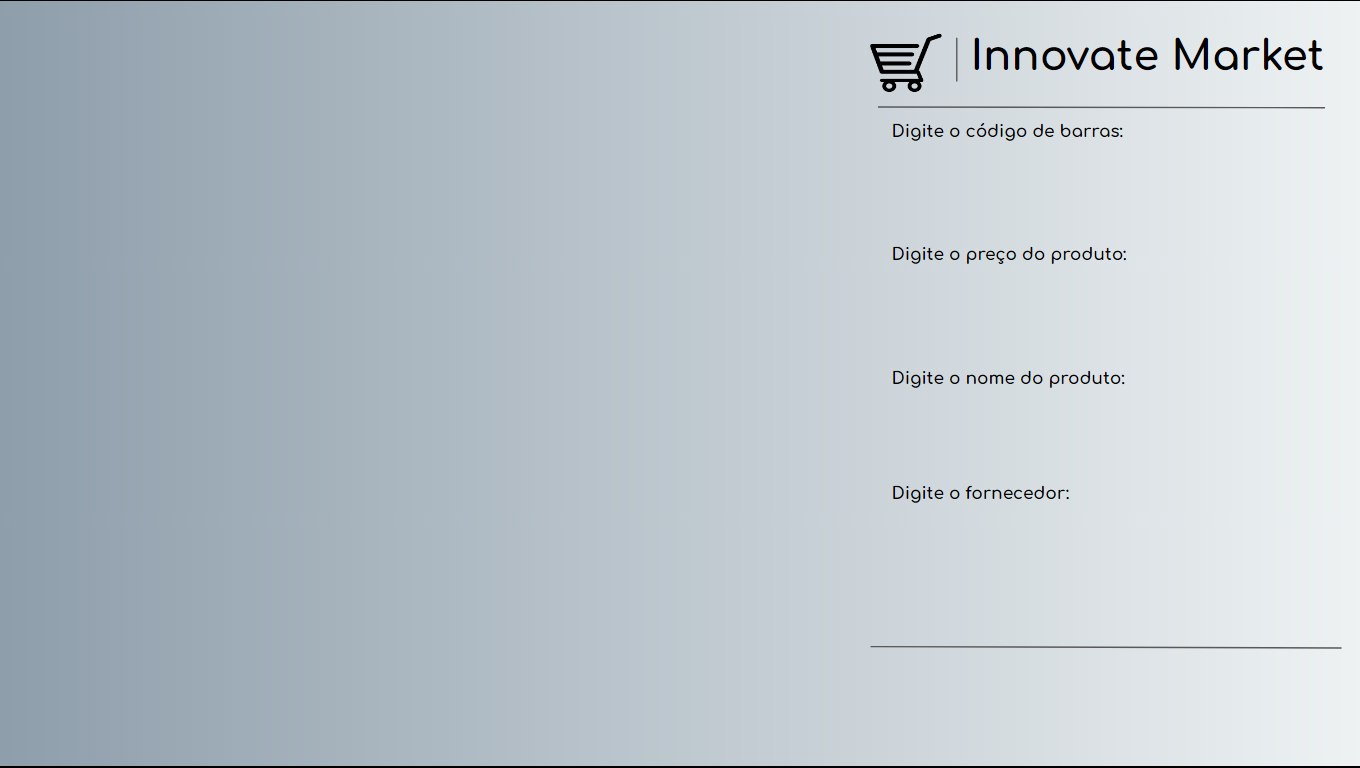
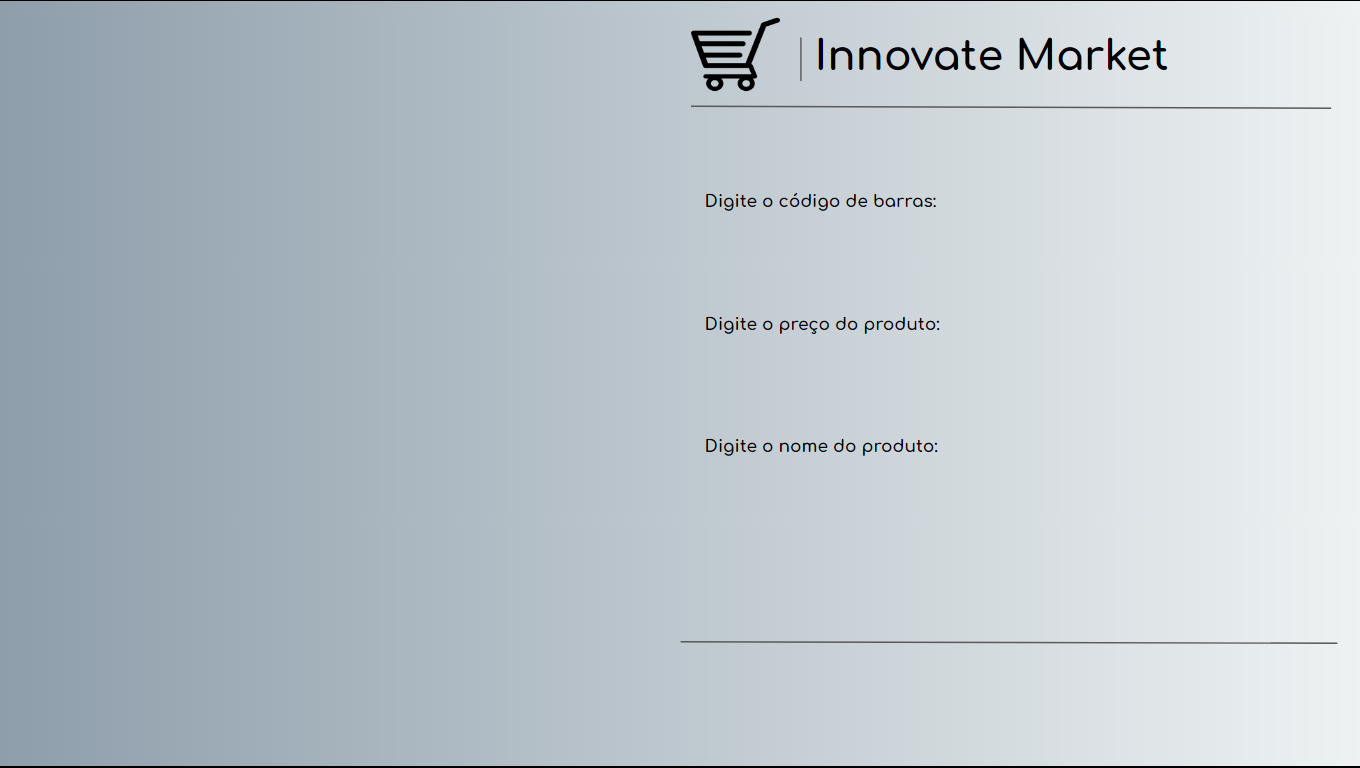
Update fullscreen

diff --git a/InnovateMarketMVC/view/Produtos.py b/InnovateMarketMVC/view/Produtos.py
@@ -10,7 +10,6 @@ from model.Config import *
 class Produtos(Frame):
     def __init__(self):
         self.dicti = {}
-        Frame.__init__(self, master=None)
         self.telaprodutos = Toplevel()
         self.telaprodutos.attributes("-fullscreen", True)
         self.geometry()
@@ -62,12 +61,15 @@ class Produtos(Frame):
             print("Error: Nenhum valor saiu da Classe")
 
     def deleteElemento(self):
-        self.currItem = self.tree_pro.focus()
-        self.values = produtosControler().valuesProdutos(
-            self.tree_pro.item(self.currItem)['values'])
-        self.tree_pro.delete(self.currItem)
-        produtosControler().deletarProduto(self.values.id)
-        self.tree_pro.bind('<ButtonRelease-1>', self.currItem)
+        if not self.tree_pro.focus():
+            messagebox.showwarning(title="ERRO!", message="Selecione uma opção para editar", parent=self.telaprodutos)
+        else:
+            self.currItem = self.tree_pro.focus()
+            self.values = produtosControler().valuesProdutos(
+                self.tree_pro.item(self.currItem)['values'])
+            self.tree_pro.delete(self.currItem)
+            produtosControler().deletarProduto(self.values.id)
+            self.tree_pro.bind('<ButtonRelease-1>', self.currItem)
 
 
     def edit_pro(self):
@@ -83,21 +85,15 @@ class Produtos(Frame):
     def elementos(self):
         self.pathBg = imagespath / "produtos_bg.png"
         self.__bg = PhotoImage(file =self.pathBg)
-
         self.lblimgbg = Label(self.telaprodutos, image=self.__bg)
         self.lblimgbg.place(x=0, y=0)
-
-        self.btn_telainicial = imagespath / "voltar.png"
-        self.btn_voltartelainicial = PhotoImage(file =self.btn_telainicial)
-        self.btn_telainicial_pro = Button(self.telaprodutos, command=self.voltar_inicial_pro, image=self.btn_voltartelainicial, relief="flat", borderwidth=0, width=224, height=50, bg="Gainsboro")
-        self.btn_telainicial_pro.place(x=980, y=660)
 
         self.style = ttk.Style()
         self.style.theme_use("default")
 
         # Frame da Treeview Produtos
-        self.tree_pro_frame = Frame(self.telaprodutos, padx=0, pady=1, bg="lightgrey")
-        self.tree_pro_frame.place(x=0, y=0)
+        self.tree_pro_frame = Frame(self.telaprodutos, padx=2, pady=2, bg="lightgrey")
+        self.tree_pro_frame.place(x=10, y=5)
 
         # ScrollBar
         self.scroll = ttk.Scrollbar(self.tree_pro_frame)
@@ -112,36 +108,40 @@ class Produtos(Frame):
         self.tree_pro.heading('#1', text="Código de barras", anchor=CENTER)
         self.tree_pro.heading('#2', text="Preço", anchor=CENTER)
         self.tree_pro.heading('#3', text="Nome", anchor=CENTER)
-        
-
+    
         self.view_tree()
 
         # ENTRYS TELA PRODUTOS
-        self.ent_pesquisar = Entry(self.telaprodutos, width=25, font="Arial 18")
-        self.ent_pesquisar.place(x=886, y=160)
+        self.ent_pesquisar = Entry(self.telaprodutos, width=35, font="Arial 18")
+        self.ent_pesquisar.place(x=700, y=160)
 
         # BUTTONS TELA PRODUTOS
         self.img_pesquisar = imagespath / "pesquisar.png"
         self.btn_pesquisar = PhotoImage(file =self.img_pesquisar)
-        self.btn_pesquisar_pro = Button(self.telaprodutos, image=self.btn_pesquisar, command=self.chamaPesquisar, relief="flat", borderwidth=0, width=110, height=50)
-        self.btn_pesquisar_pro.place(x=1225, y=150)
+        self.btn_pesquisar_pro = Button(self.telaprodutos, image=self.btn_pesquisar, command=self.chamaPesquisar, relief="flat", borderwidth=0, width=105, height=50)
+        self.btn_pesquisar_pro.place(x=1165, y=150)
 
         self.img_mostrar = imagespath / "Mostrar.png"
         self.btn_mostrar = PhotoImage(file =self.img_mostrar)
         self.btn_show = Button(self.telaprodutos, command=lambda:[self.view_tree(), self.clear_entry()], image=self.btn_mostrar, relief="flat", borderwidth=0, bg="lightgrey")
-        self.btn_show.place(x=980, y=210)
+        self.btn_show.place(x=910, y=210)
 
         self.img_adicionar = imagespath / "adicionar.png"
         self.btn_adicionar = PhotoImage(file =self.img_adicionar)
         self.btn_show = Button(self.telaprodutos, command=Adicionar_pro, image=self.btn_adicionar, relief="flat", borderwidth=0, bg="lightgrey")
-        self.btn_show.place(x=980, y=330)
+        self.btn_show.place(x=910, y=330)
 
         self.img_editar = imagespath / "editar.png"
         self.btn_editar = PhotoImage(file =self.img_editar)
         self.btn_show = Button(self.telaprodutos, command=self.edit_pro, image=self.btn_editar, relief="flat", borderwidth=0, bg="lightgrey")
-        self.btn_show.place(x=980, y=400)
+        self.btn_show.place(x=910, y=400)
 
         self.img_deletar = imagespath / "deletar.png"
         self.btn_deletar = PhotoImage(file =self.img_deletar)
         self.btn_show = Button(self.telaprodutos, command=self.deleteElemento, image=self.btn_deletar, relief="flat", borderwidth=0, bg="lightgrey")
-        self.btn_show.place(x=980, y=467)
+        self.btn_show.place(x=910, y=467)
+
+        self.btn_telainicial = imagespath / "voltar.png"
+        self.btn_voltartelainicial = PhotoImage(file =self.btn_telainicial)
+        self.btn_telainicial_pro = Button(self.telaprodutos, command=self.voltar_inicial_pro, image=self.btn_voltartelainicial, relief="flat", borderwidth=0, width=224, height=50, bg="Gainsboro")
+        self.btn_telainicial_pro.place(x=910, y=660)

diff --git a/InnovateMarketMVC/view/Adicionar/Adicionar_pro.py b/InnovateMarketMVC/view/Adicionar/Adicionar_pro.py
@@ -3,11 +3,11 @@ import tkinter.ttk as ttk
 from tkinter import messagebox
 from model.Config import *
 from controller.Controller import produtosControler
+import time
 
 
 class Adicionar_pro(Frame):
     def __init__(self):
-        Frame.__init__(self, master=None)
         self.adicionar_pro = Toplevel()
         self.adicionar_pro.attributes("-fullscreen", True)
         self.geometry()
@@ -43,22 +43,14 @@ class Adicionar_pro(Frame):
         self.dicti["nome"] = self.ent_nome.get()
         print(self.dicti.get('cod'))
         produtosControler().inserirProduto(self.dicti)
-        
         self.mostrarDados()
         self.voltar_inicial_add_pro()
 
     def elementos(self):
-        
         self.pathBg = imagespath / "editProdutos_bg.png"
         self.__bg = PhotoImage(file =self.pathBg)
         self.lblimgbg = Label(self.adicionar_pro, image=self.__bg)
         self.lblimgbg.place(x=0, y=0)
-
-        self.btn_salvarPath = imagespath / "Salvar.png"
-        self.btn_salvar = PhotoImage(file =self.btn_salvarPath)
-        self.btn_salvar_add_pro = Button(self.adicionar_pro, image=self.btn_salvar, command=self.adicionar_produto, relief="flat", borderwidth=0, width=225, height=50, bg="Gainsboro")
-        self.btn_salvar_add_pro.place(x=980, y=660)
-
 
         self.ent_cod = Entry(self.adicionar_pro, width=25, font="Arial 18")
         self.ent_cod.place(x=886, y=160)
@@ -70,20 +62,23 @@ class Adicionar_pro(Frame):
         self.ent_nome = Entry(self.adicionar_pro, width=25, font="Arial 18")
         self.ent_nome.place(x=886, y=400)
 
+        self.btn_telainicial = imagespath / "Salvar.png"
+        self.btn_salvar = PhotoImage(file =self.btn_telainicial)
+        self.btn_salvar_add_pro = Button(self.adicionar_pro, image=self.btn_salvar, command=self.adicionar_produto, relief="flat", borderwidth=0, width=225, height=50, bg="Gainsboro")
+        self.btn_salvar_add_pro.place(x=900, y=660)
 
         self.style = ttk.Style()
         self.style.theme_use("default")
 
         # Frame da Treeview Produtos
-        self.tree_pro_frame = Frame(self.adicionar_pro, padx=0, pady=0, bg="lightgrey")
-        self.tree_pro_frame.place(x=0, y=0)
+        self.tree_pro_frame = Frame(self.adicionar_pro, padx=2, pady=2, bg="lightgrey")
+        self.tree_pro_frame.place(x=10, y=5)
 
         # ScrollBar
         self.scroll = ttk.Scrollbar(self.tree_pro_frame)
         self.scroll.pack(side=RIGHT, fill=Y, padx=0)
 
-        self.tree_pro = ttk.Treeview(self.tree_pro_frame, column=(
-            "Código de barras", "Preço", "Nome"), show='headings', height=35, yscrollcommand=self.scroll.set)
+        self.tree_pro = ttk.Treeview(self.tree_pro_frame, column=("Código de barras", "Preço", "Nome"), show='headings', height=35, yscrollcommand=self.scroll.set)
 
         self.tree_pro.pack()
 
@@ -93,5 +88,4 @@ class Adicionar_pro(Frame):
         self.tree_pro.heading('#2', text="Preço", anchor=CENTER)
         self.tree_pro.heading('#3', text="Nome", anchor=CENTER)
         
-
         self.mostrarDados()

diff --git a/InnovateMarketMVC/view/Editar/Editar_produtos.py b/InnovateMarketMVC/view/Editar/Editar_produtos.py
@@ -35,7 +35,7 @@ class Editar_produtos(Frame):
         self.edit_produtos.iconbitmap(self.__iconImagemPath)
 
     def updateProduto(self):
-        self.values.nome = self.ent_nome.get()
+        self.values.id = self.ent_cod.get()
         self.values.preco = self.ent_preco.get()
         self.values.id = self.ent_cod.get()
         print(self.values.id)
@@ -70,8 +70,8 @@ class Editar_produtos(Frame):
         self.style.theme_use("default")
 
         # Frame da Treeview Produtos
-        self.tree_pro_frame = Frame(self.edit_produtos, padx=0, pady=1, bg="lightgrey")
-        self.tree_pro_frame.place(x=0, y=0)
+        self.tree_pro_frame = Frame(self.edit_produtos, padx=2, pady=2, bg="lightgrey")
+        self.tree_pro_frame.place(x=20, y=5)
 
         # ScrollBar
         self.scroll = ttk.Scrollbar(self.tree_pro_frame)
@@ -86,7 +86,6 @@ class Editar_produtos(Frame):
         self.tree_pro.heading('#1', text="Código de barras", anchor=CENTER)
         self.tree_pro.heading('#2', text="Preço", anchor=CENTER)
         self.tree_pro.heading('#3', text="Nome", anchor=CENTER)
-
 
         self.view_tree()
 

diff --git a/InnovateMarketMVC/view/SegundaTela.py b/InnovateMarketMVC/view/SegundaTela.py
@@ -12,7 +12,6 @@ from model.Usuario import Cargo
 
 class SegundaTela(Frame):
     def __init__(self, usuario):
-        Frame.__init__(self, master=None)
         self.tela2 = Toplevel()
         self.tela2.attributes("-fullscreen", True)
         self.elementos()

diff --git a/InnovateMarketMVC/view/Pedidos.py b/InnovateMarketMVC/view/Pedidos.py
@@ -9,7 +9,6 @@ from model.Config import *
 
 class Pedidos(Frame):
     def __init__(self):
-        Frame.__init__(self, master=None)
         self.telapedi = Toplevel()
         self.telapedi.attributes("-fullscreen", True)
         self.geometry()

diff --git a/InnovateMarketMVC/view/Caixa.py b/InnovateMarketMVC/view/Caixa.py
@@ -9,7 +9,6 @@ from view.CaixaProdutos import *
 
 class Caixa(Frame):
     def __init__(self):
-        Frame.__init__(self, master=None)
         self.compraID = self.gerarVendaId()
         self.telacaixa = Toplevel()
         self.geometry()
